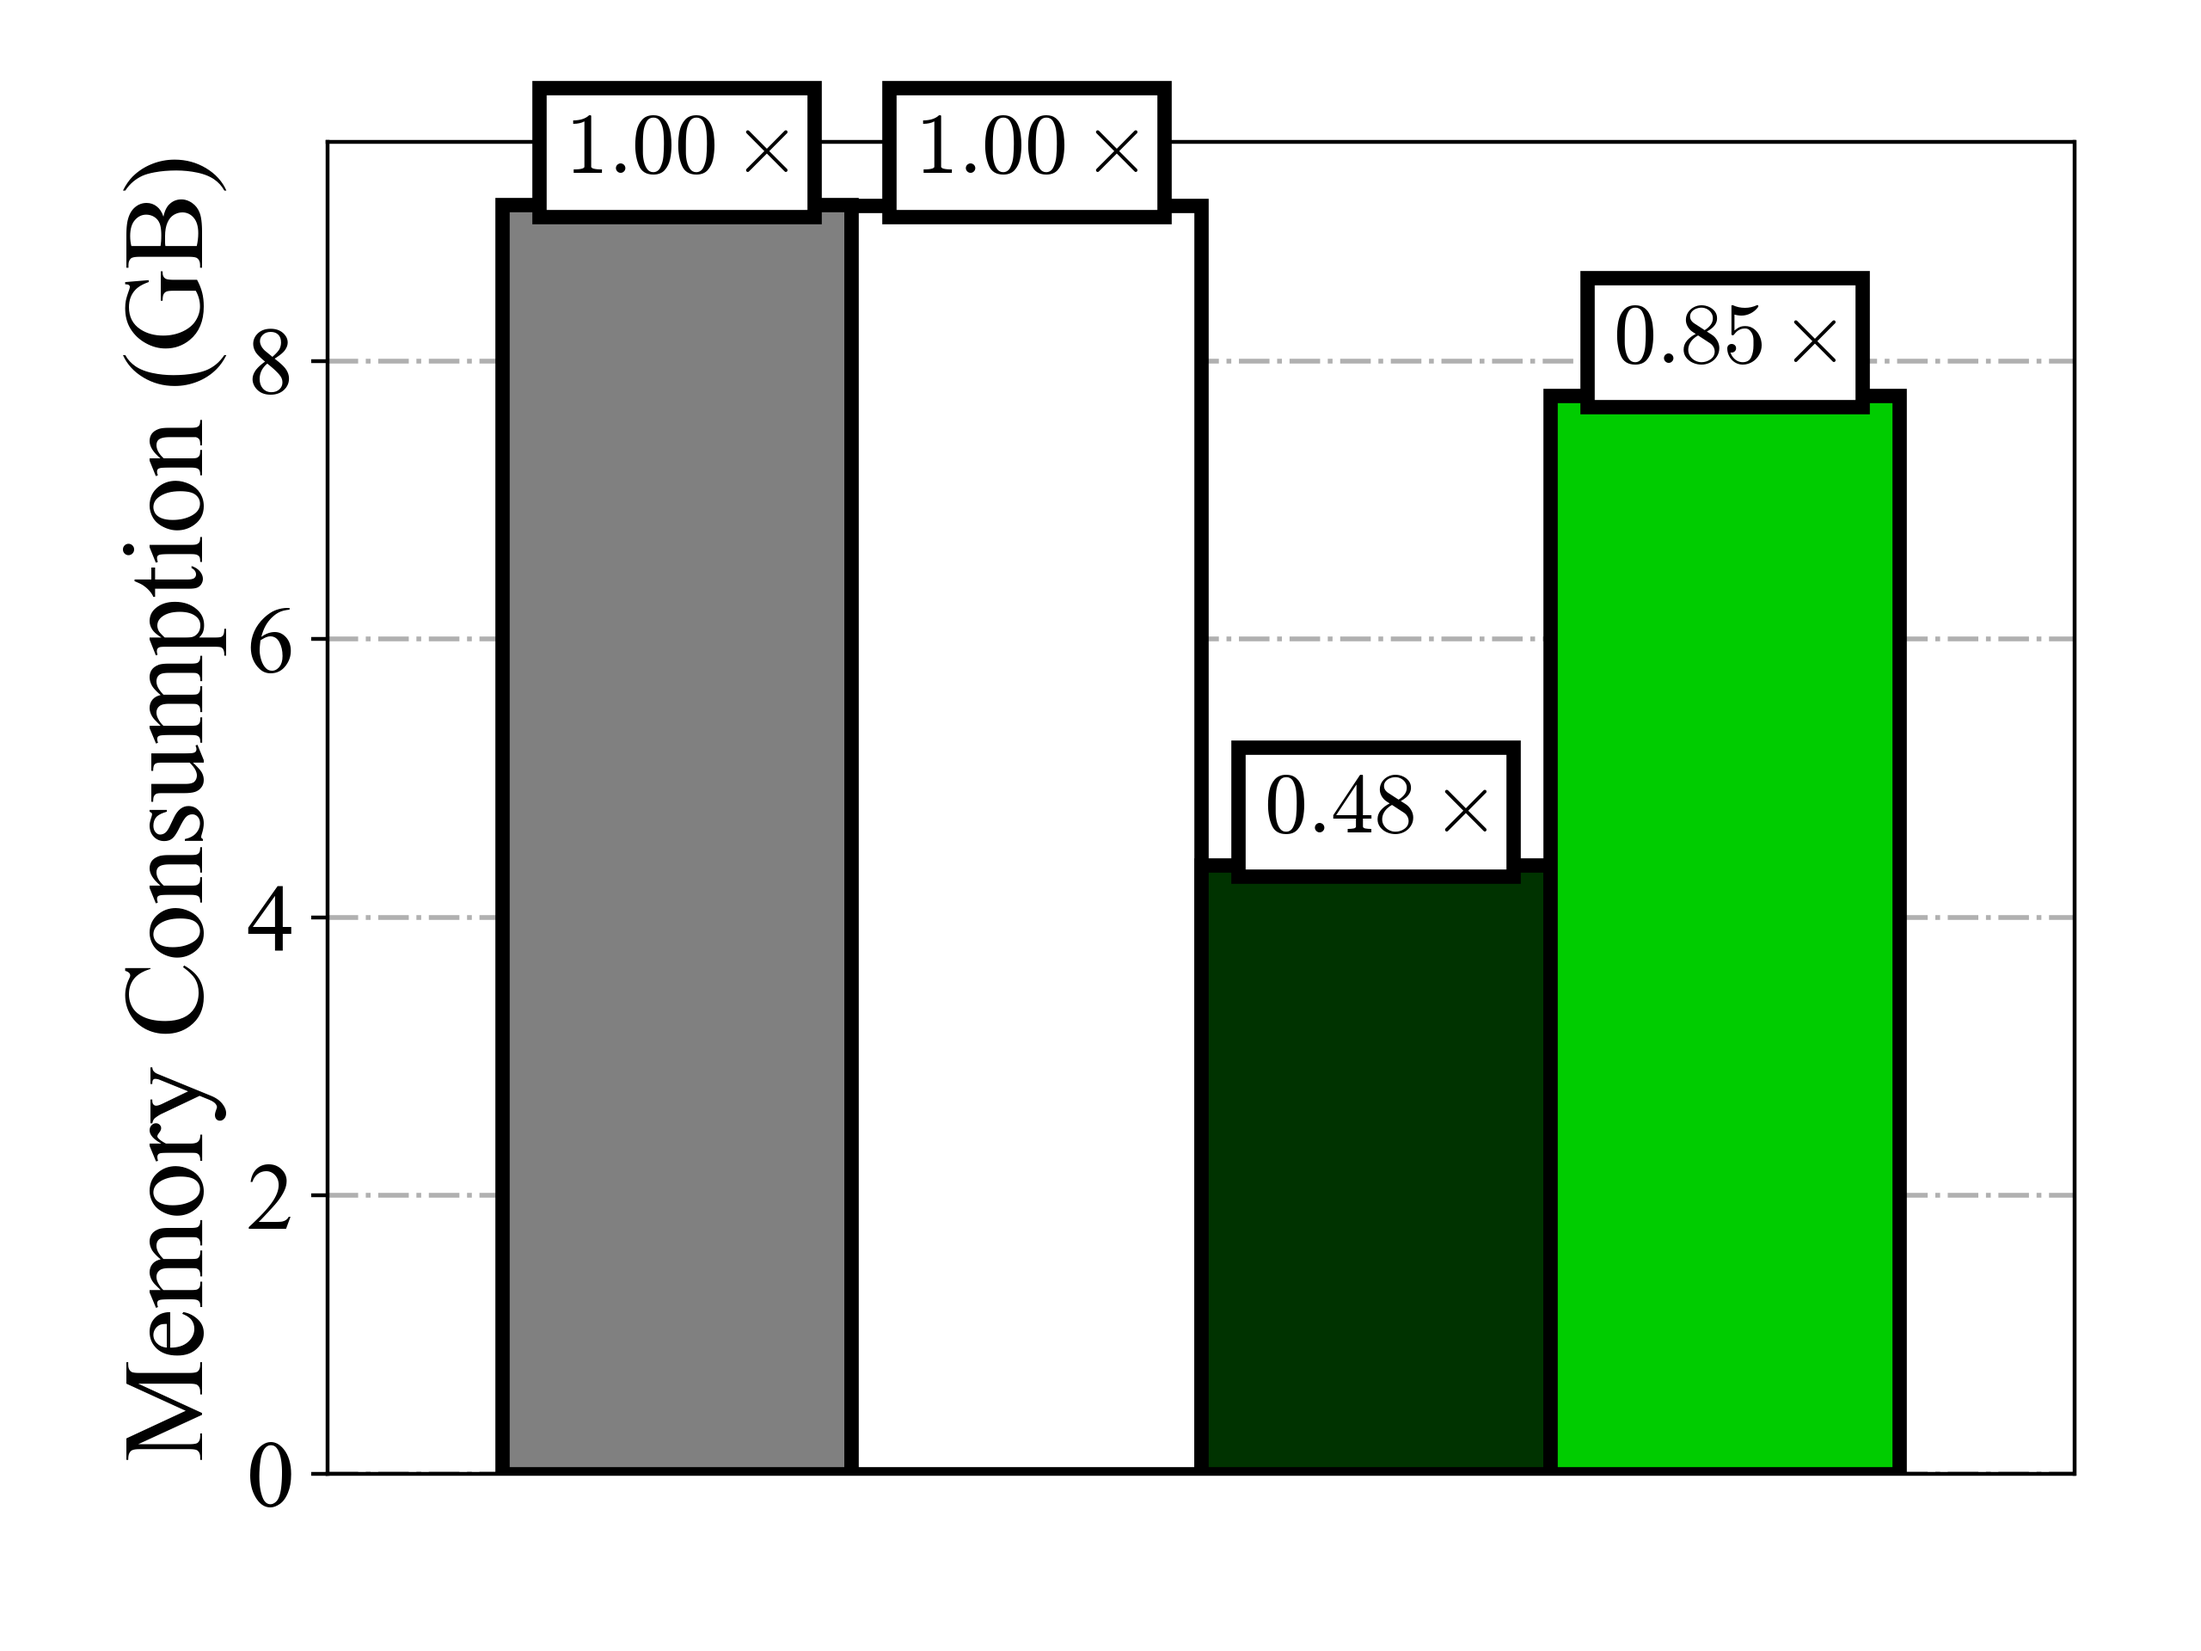
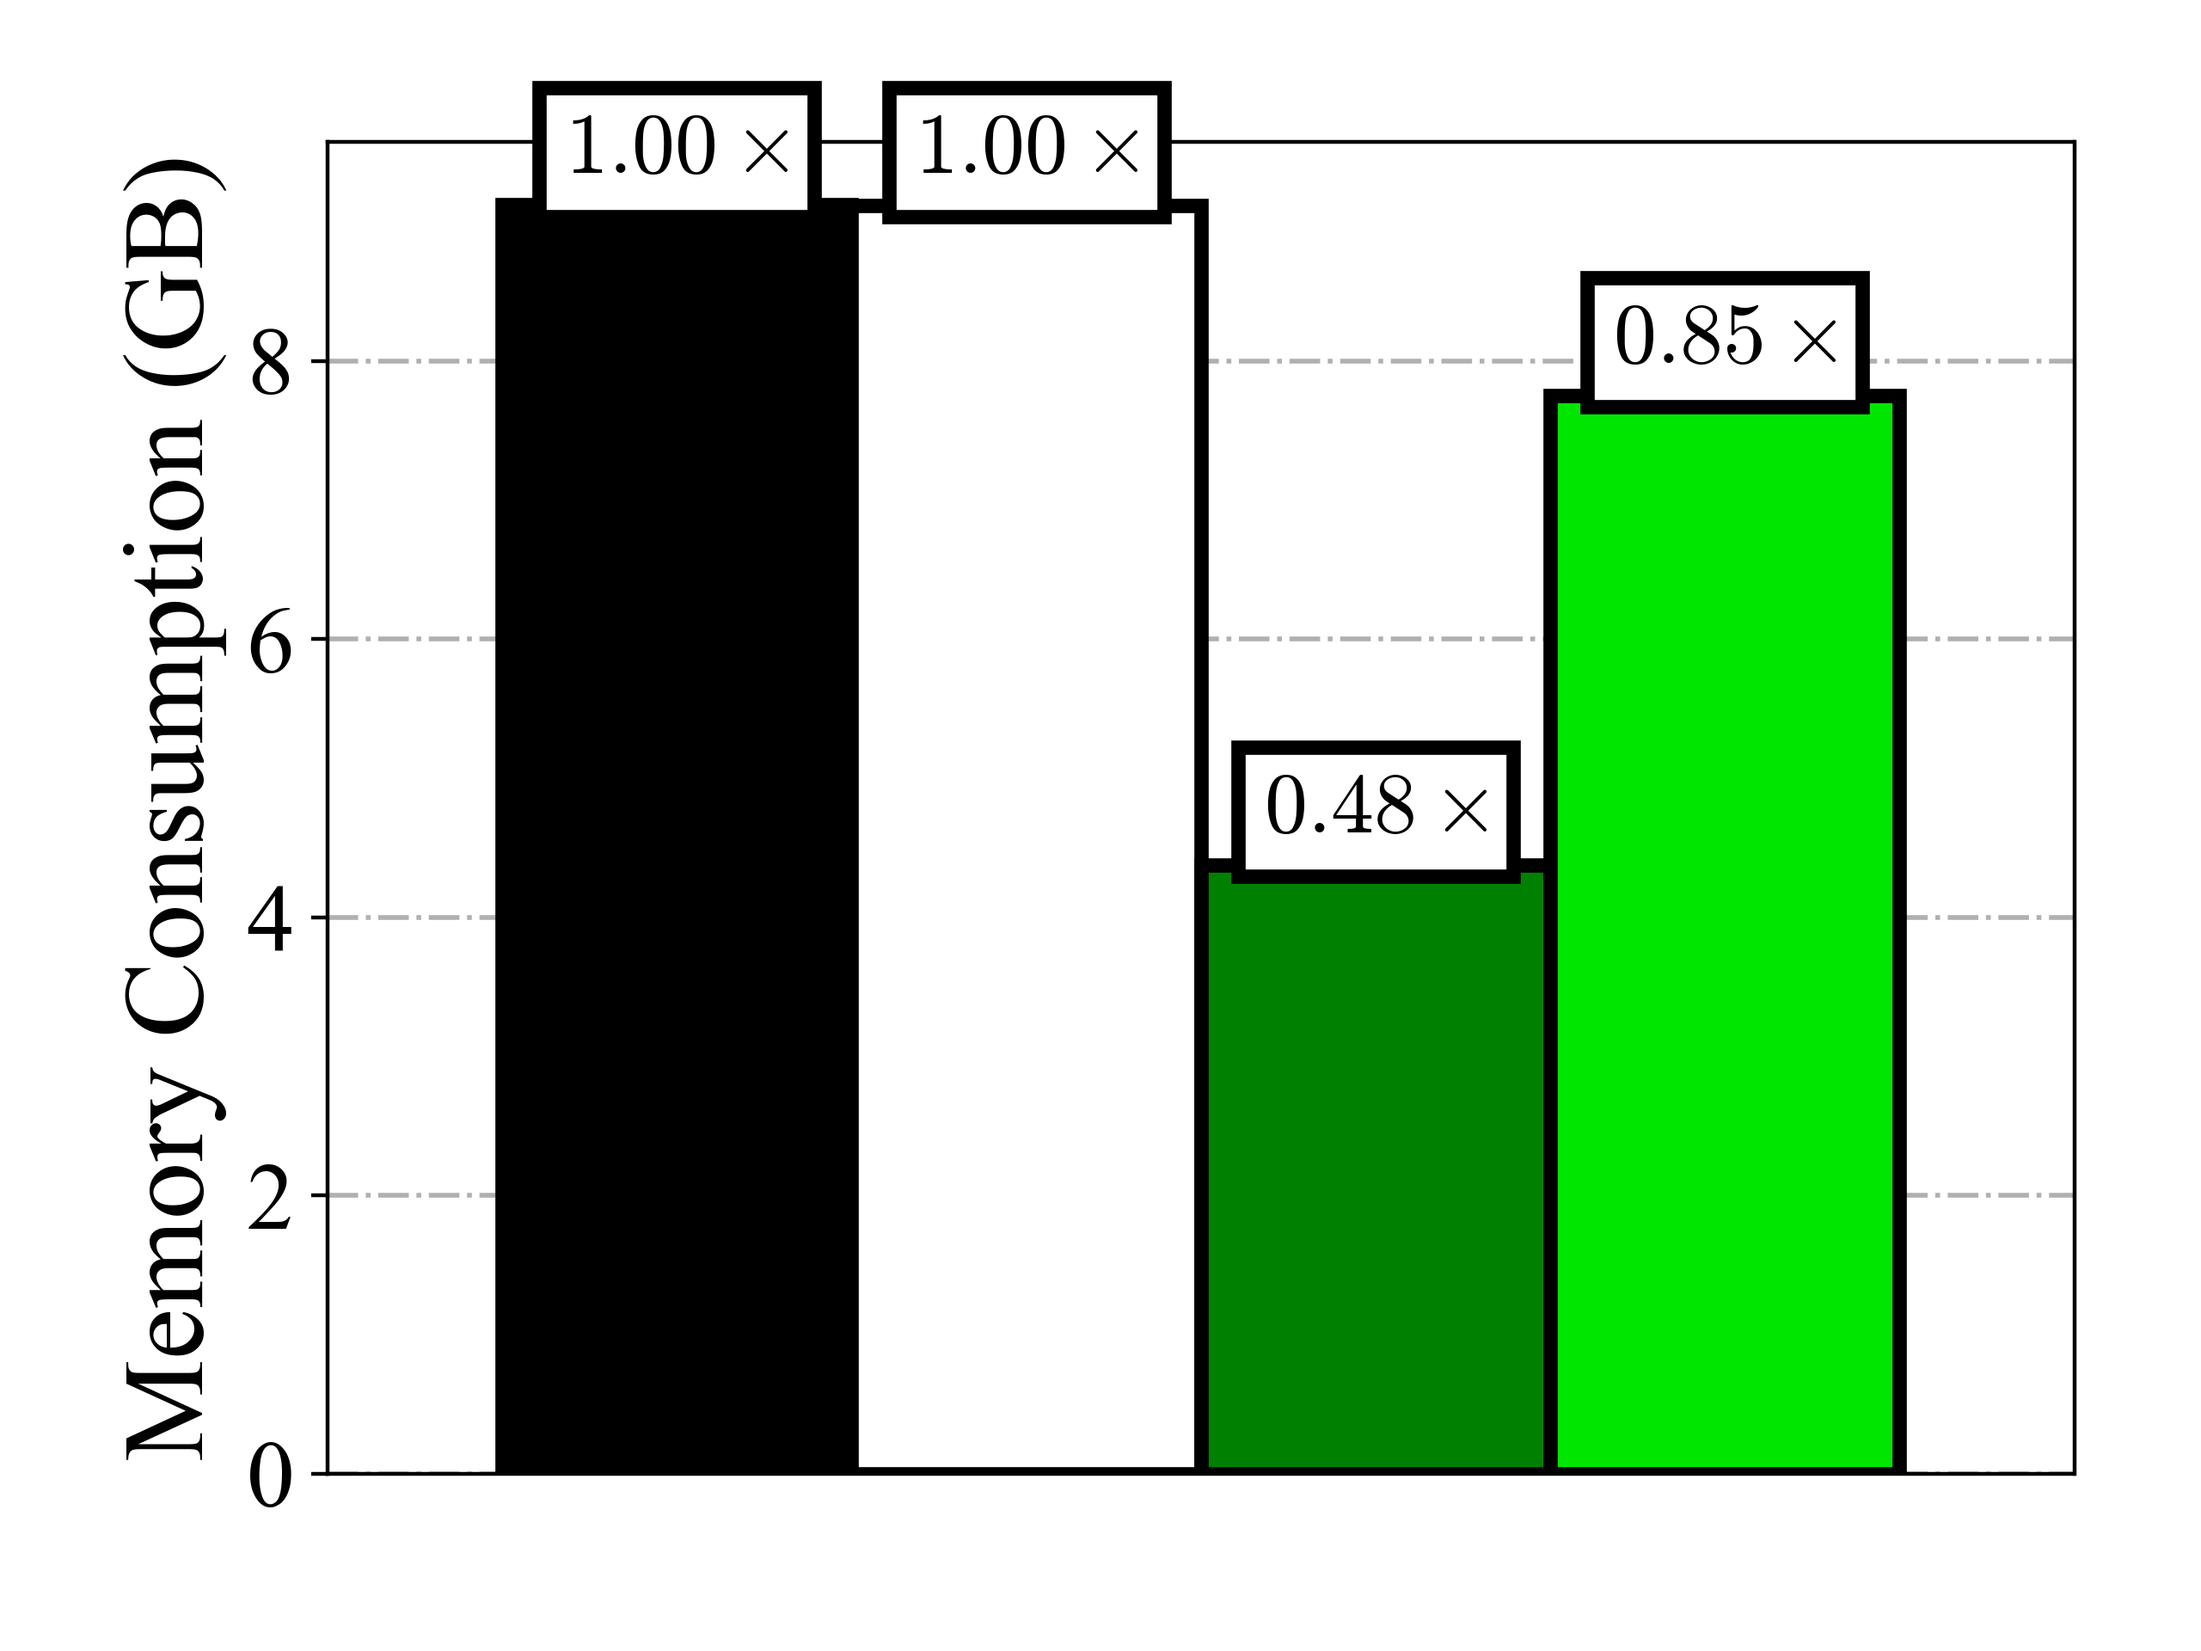
Changed the colors.

Changed region(s): [[0.5312, 0.25, 0.875, 0.9062], [0.2188, 0.125, 0.4062, 0.9062]]

diff --git a/workspace/results/tensorboard/tensorboard_visualizer_helper.py b/workspace/results/tensorboard/tensorboard_visualizer_helper.py
@@ -319,7 +319,7 @@ def plt_default_vs_econmt_full_training_metrics(metric, metric_unit, measurer, y
 
     handles.append(plt.bar(x=-2*bar_width, height=default_128_metric,
             width=bar_width, edgecolor='black', linewidth=3,
-            color='grey',
+            color='black',
             label=r"Default$_{B=128}$"))
     handles.append(plt.bar(x=-1*bar_width, height=default_128_par_rev_metric,
             width=bar_width, edgecolor='black', linewidth=3,
@@ -327,11 +327,11 @@ def plt_default_vs_econmt_full_training_metrics(metric, metric_unit, measurer, y
             label=r"Default$_{B=128}^\mathrm{par\_rev}$"))
     handles.append(plt.bar(x= 0*bar_width, height= econmt_128_par_rev_metric,
             width=bar_width, edgecolor='black', linewidth=3,
-            color=np.array([0, 0.2, 0]),
+            color=np.array([0, 0.5, 0]),
             label= r"EcoRNN$_{B=128}^\mathrm{par\_rev}$"))
     handles.append(plt.bar(x= 1*bar_width, height= econmt_256_par_rev_metric,
             width=bar_width, edgecolor='black', linewidth=3,
-            color=np.array([0, 0.8, 0]),
+            color=np.array([0, 0.9, 0]),
             label= r"EcoRNN$_{B=256}^\mathrm{par\_rev}$"))
 
     _annotate(x=-2*bar_width, metric=default_128_metric)
